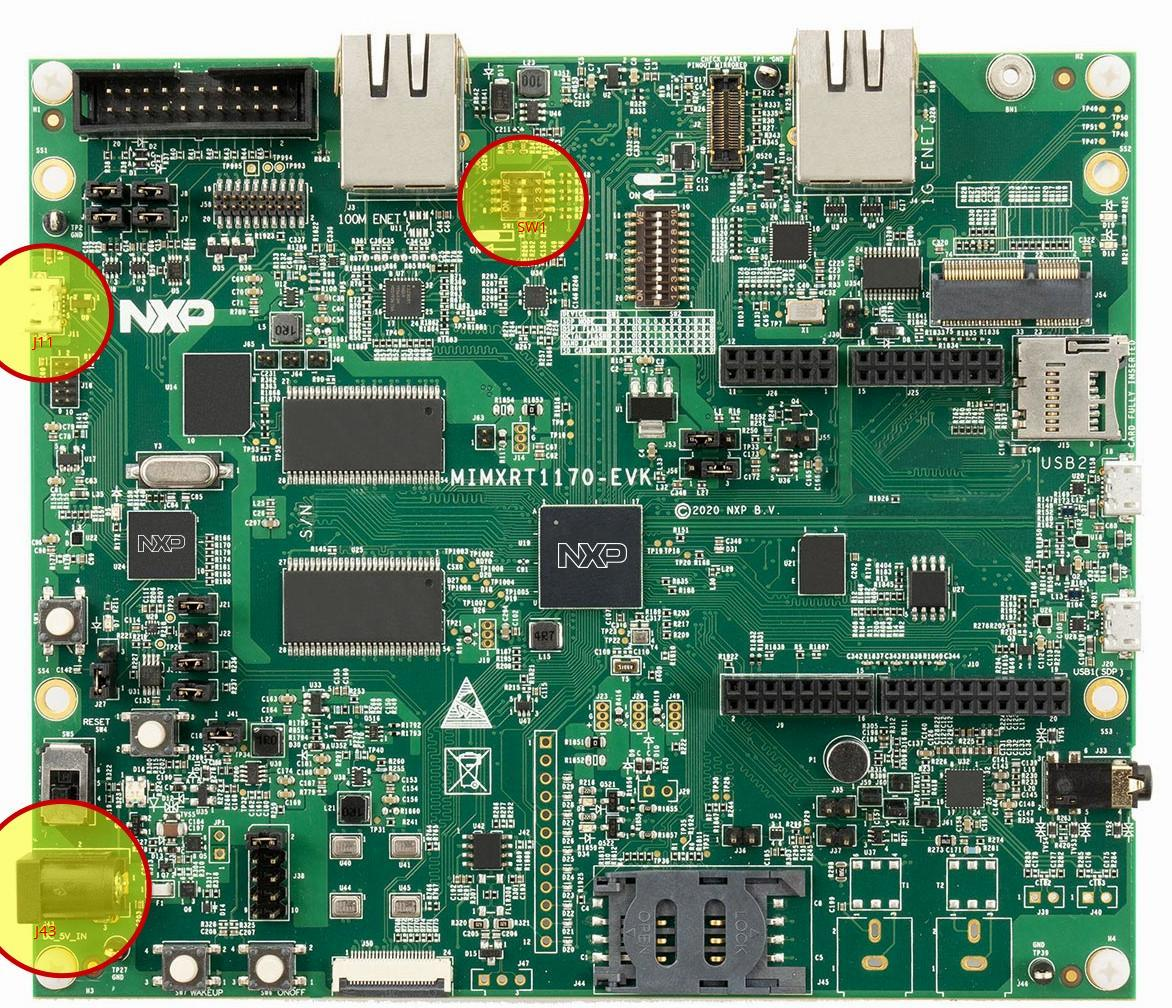
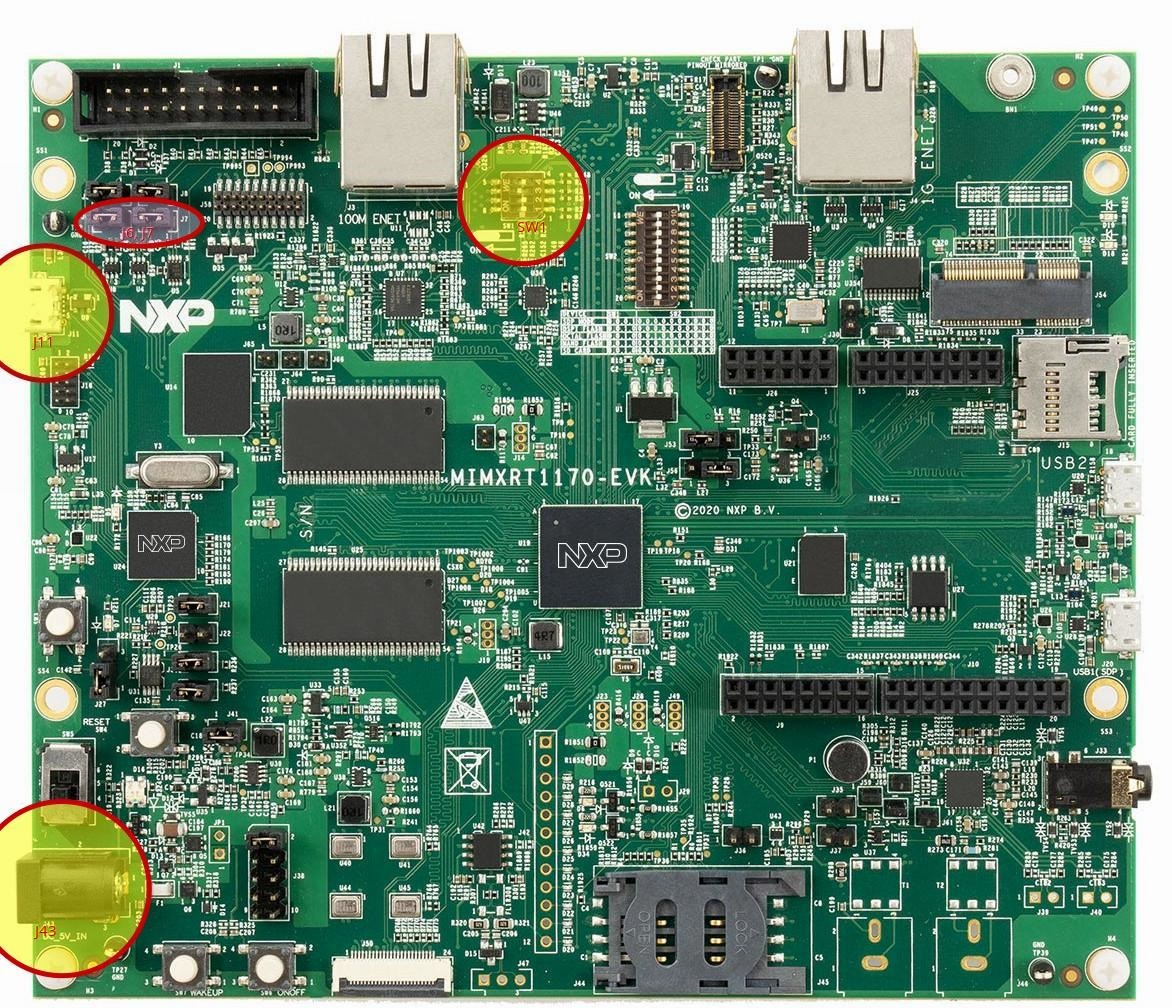
Getting Started RT1170: Update Hardware Setup

Changed region(s): [[0.0614, 0.1845, 0.1843, 0.246]]

diff --git a/SDK6UserGuide/gettingStartedIMXRT1170.rst b/SDK6UserGuide/gettingStartedIMXRT1170.rst
@@ -245,16 +245,16 @@ Hardware Setup
          :align: center
          :scale: 70%
 
-Setup the i.MX RT595 EVK:
+Setup the i.MX RT1170 EVK
 
-* Check that the dip switches (SW7) are set to OFF, OFF and ON (ISP0, ISP1, ISP2).
-* Ensure jumpers JP18 and JP19 are closed.
-* Remove jumper JP4.
-* Connect the micro-USB cable to J40 to power the board.
+* Check that the dip switches (SW1) are set to OFF, OFF, ON and OFF.
+* Ensure jumpers J6 and J7 are closed.
+* Connect the micro-USB cable to J11 to power the board.
+* You can connect 5 V power supply to J43 if you need to use the display
 
-The USB connection is used as a serial console for the SoC, as a CMSIS-DAP debugger, and as a power input for the board.
+The USB connection is used as a serial console for the SoC, as a CMSIS-DAP debugger and as a power input for the board.
 
-A COM port is automatically mounted when the board is plugged into a computer using a USB cable. All board logs are available through this COM port.
+MicroEJ VEE Port uses the virtual UART from the i.MX RT1170 EVK USB port. A COM port is automatically mounted when the board is plugged into a computer using a USB cable. All board logs are available through this COM port.
 
 The COM port uses the following parameters:
 
